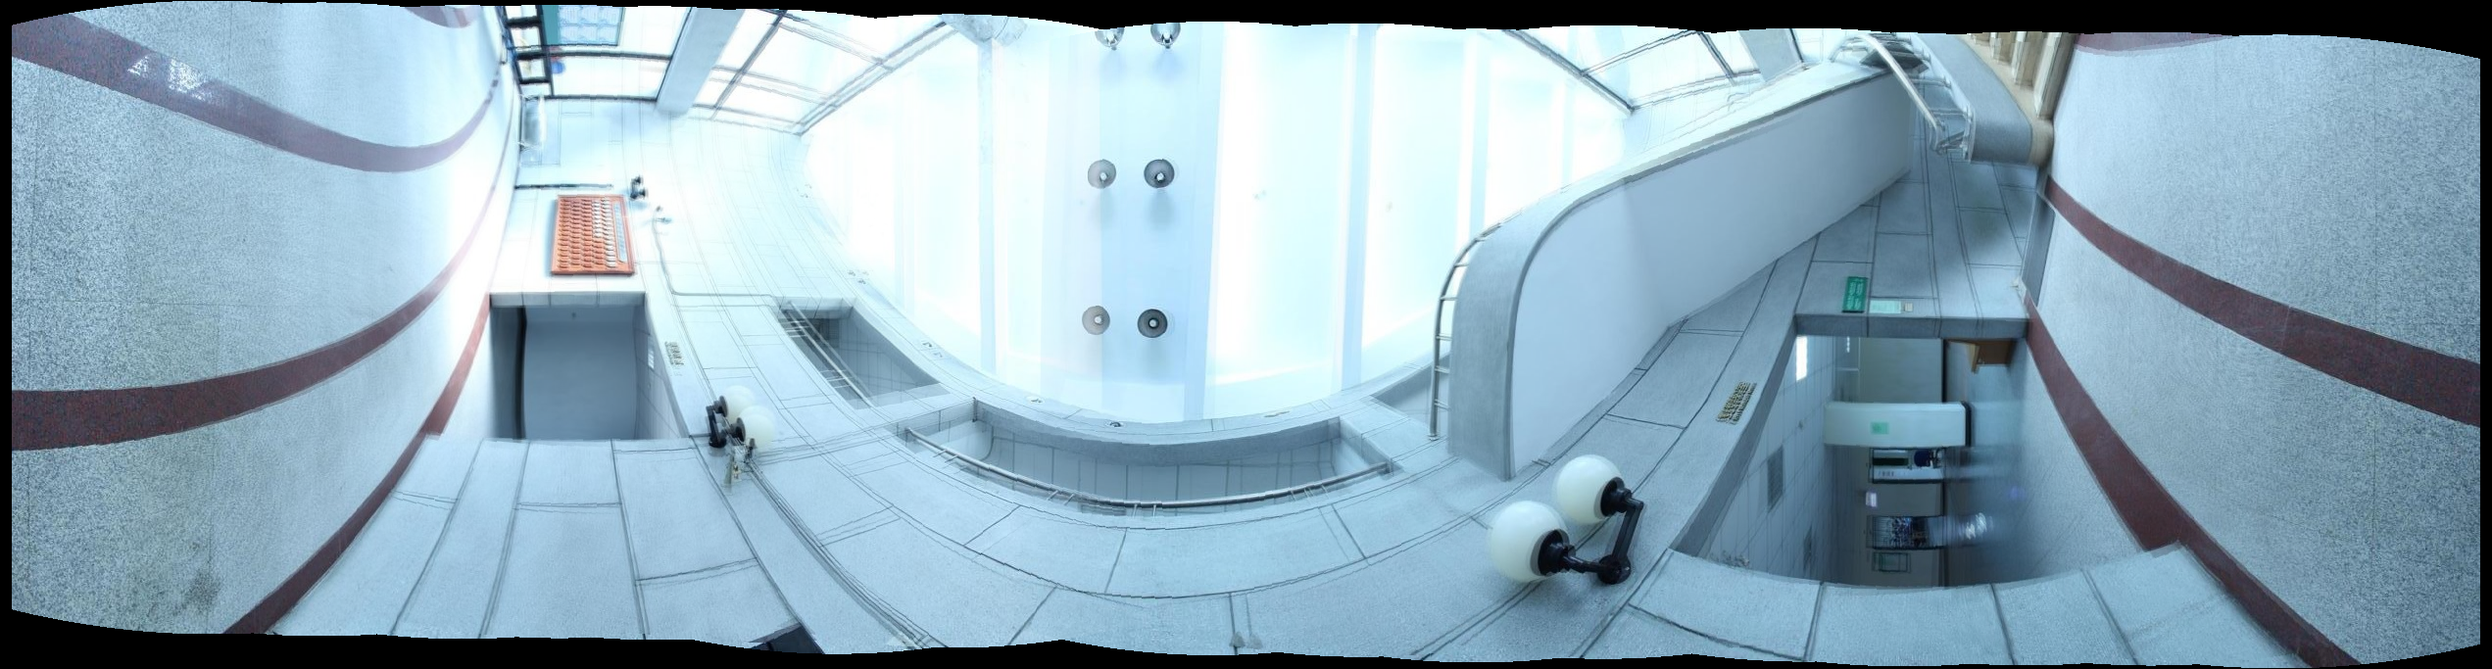
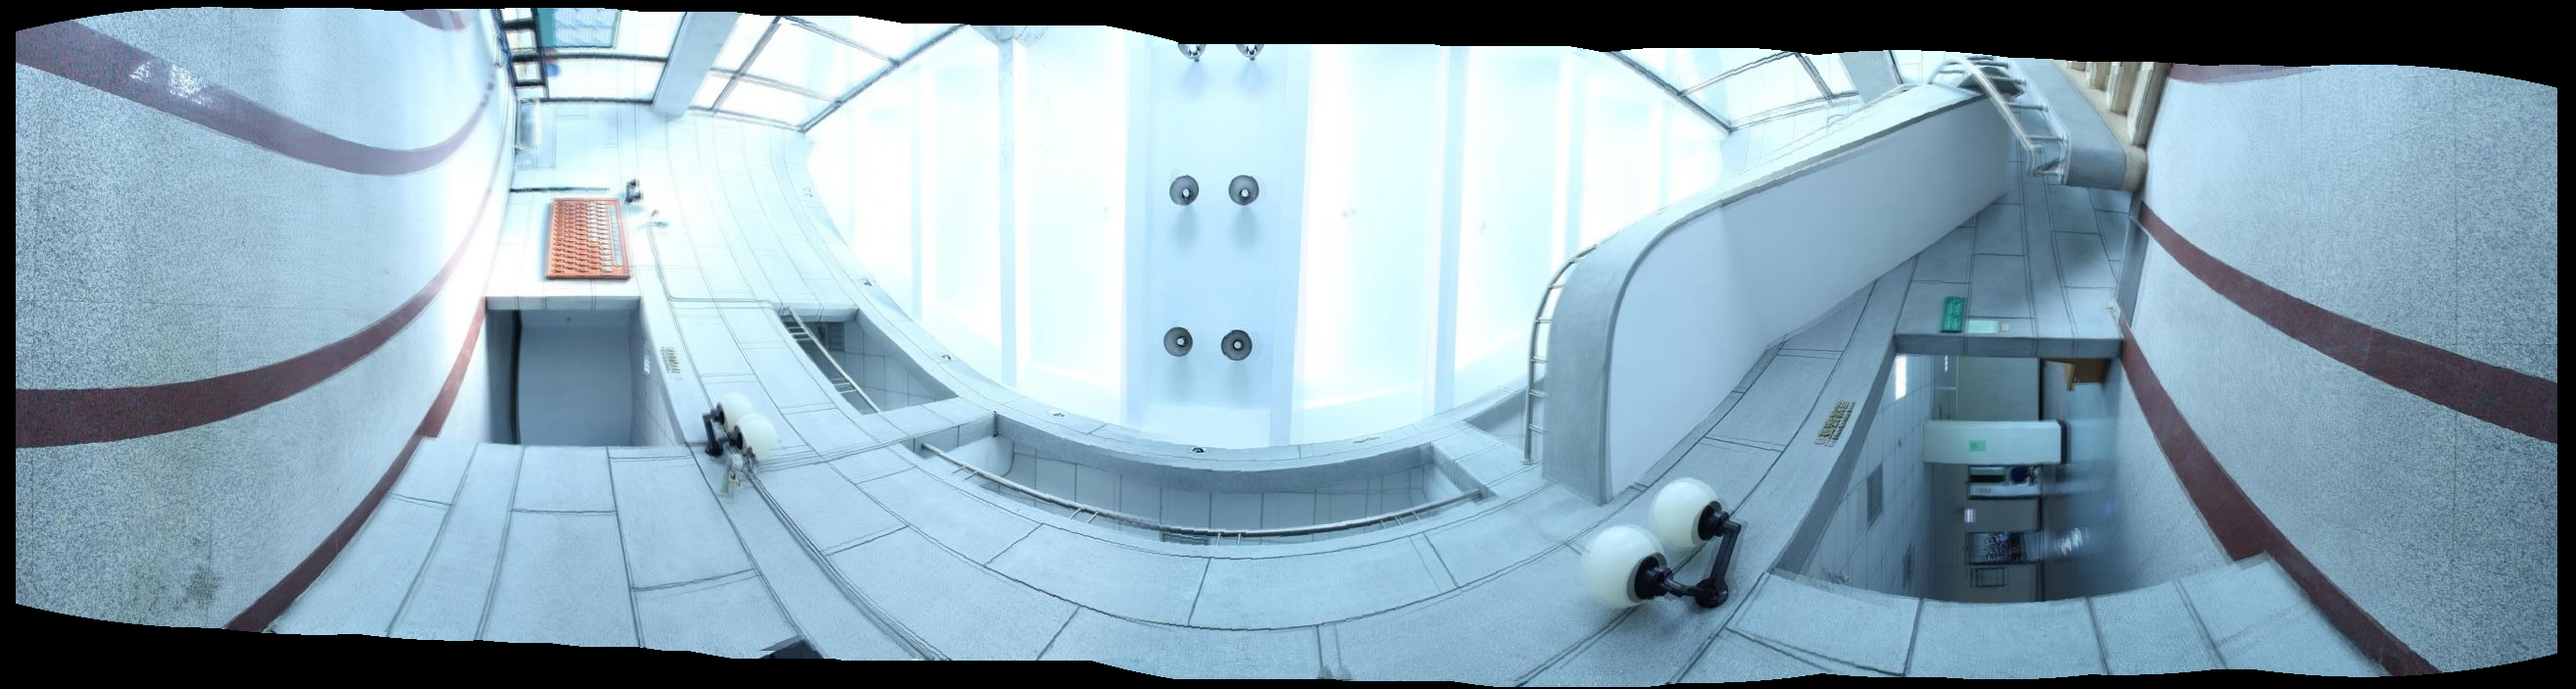
RANSAC repeat more times

diff --git a/Resource/src/calculateTranslation.m b/Resource/src/calculateTranslation.m
@@ -1,7 +1,7 @@
 function tran = calculateTranslation(pairs)
     % RANSAC
     THRES = 40;
-    REP = 40;
+    REP = 60;
     n = size(pairs,1);
     tmp_cnt = 0;
     tmp_tran = zeros(2);
